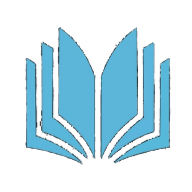
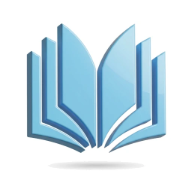
Ikon aplikasi 3D baru (latar putih) + ikon Absen dengan centang

diff --git a/sw.js b/sw.js
@@ -3,8 +3,8 @@
 //   lambat (>4 detik) atau putus, pakai salinan terakhir yang tersimpan di HP.
 // - Pustaka (Firebase, font, html2canvas) & ikon: disimpan di HP supaya cepat dibuka.
 // - Data (Firestore) TIDAK pernah disimpan di sini — selalu langsung dari Firebase.
-const CACHE = 'bna-app-v1';
-const CORE = ['./', './index.html', './manifest.json', './manifest-absen.json', './icon-192.png', './icon-512.png'];
+const CACHE = 'bna-app-v2';
+const CORE = ['./', './index.html', './manifest.json', './manifest-absen.json', './icon-192.png', './icon-512.png', './icon-absen-192.png', './icon-absen-512.png'];
 
 self.addEventListener('install', (e) => {
   e.waitUntil(caches.open(CACHE).then((c) => c.addAll(CORE)).catch(() => {}).then(() => self.skipWaiting()));

diff --git a/index.html b/index.html
@@ -3941,6 +3941,7 @@ service cloud.firestore {
       mf.rel = 'manifest';
       mf.href = absenId ? 'manifest-absen.json' : 'manifest.json';
       document.head.appendChild(mf);
+      if(absenId){ const ti = document.querySelector('link[rel="apple-touch-icon"]'); if(ti) ti.href = 'icon-absen-192.png'; }
       if('serviceWorker' in navigator && location.protocol==='https:'){
         navigator.serviceWorker.register('sw.js').catch(()=>{});
       }
